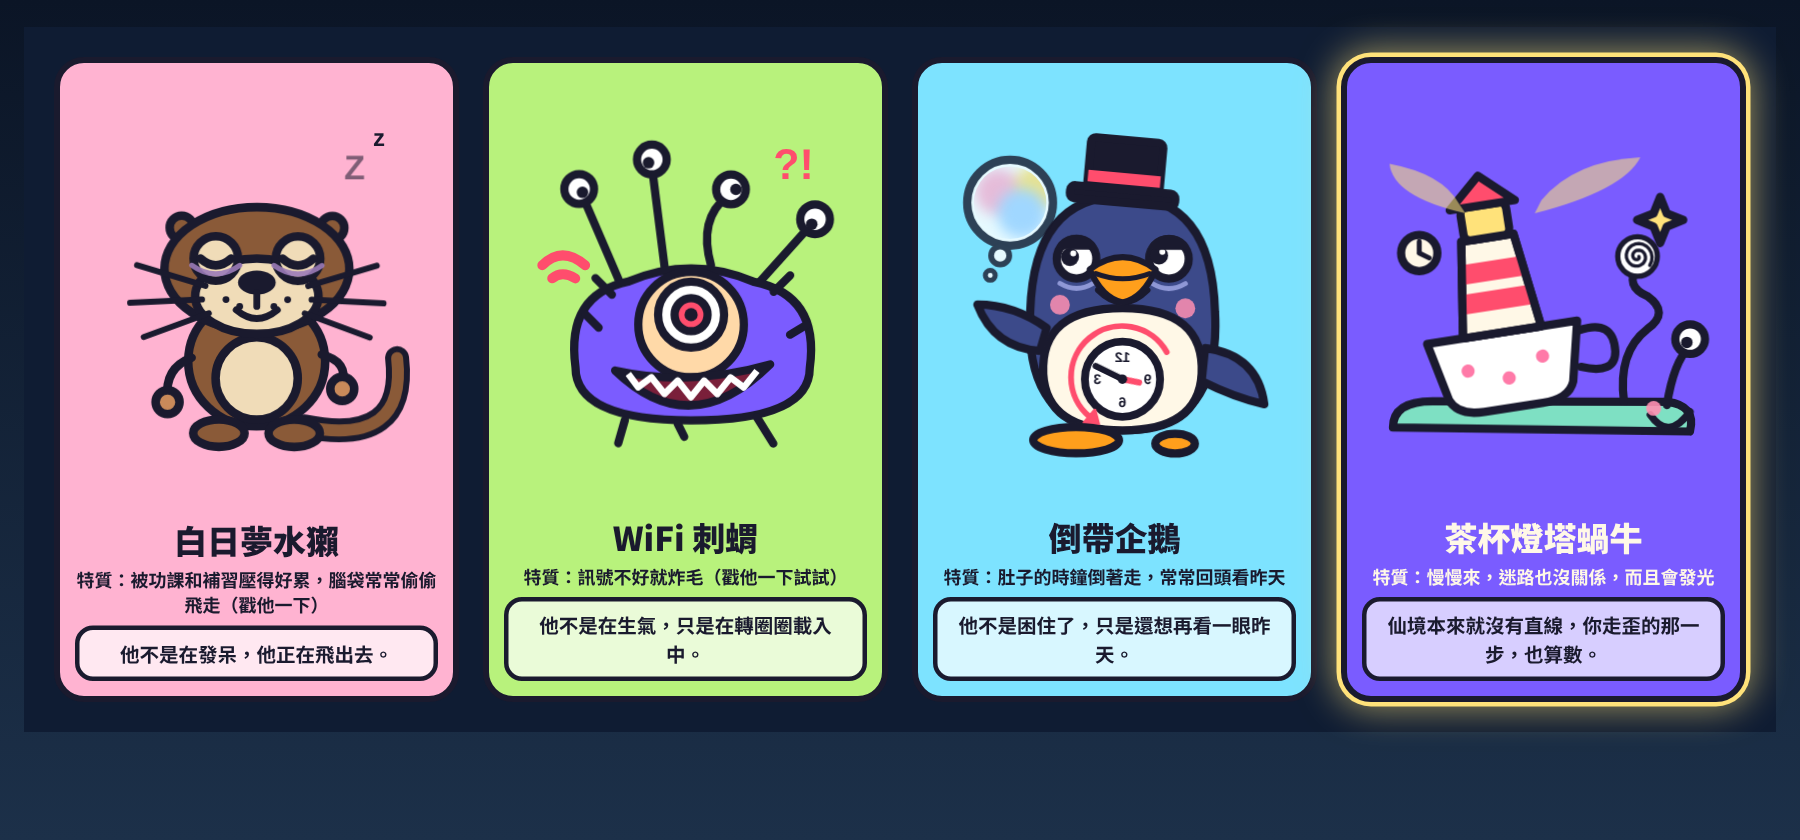
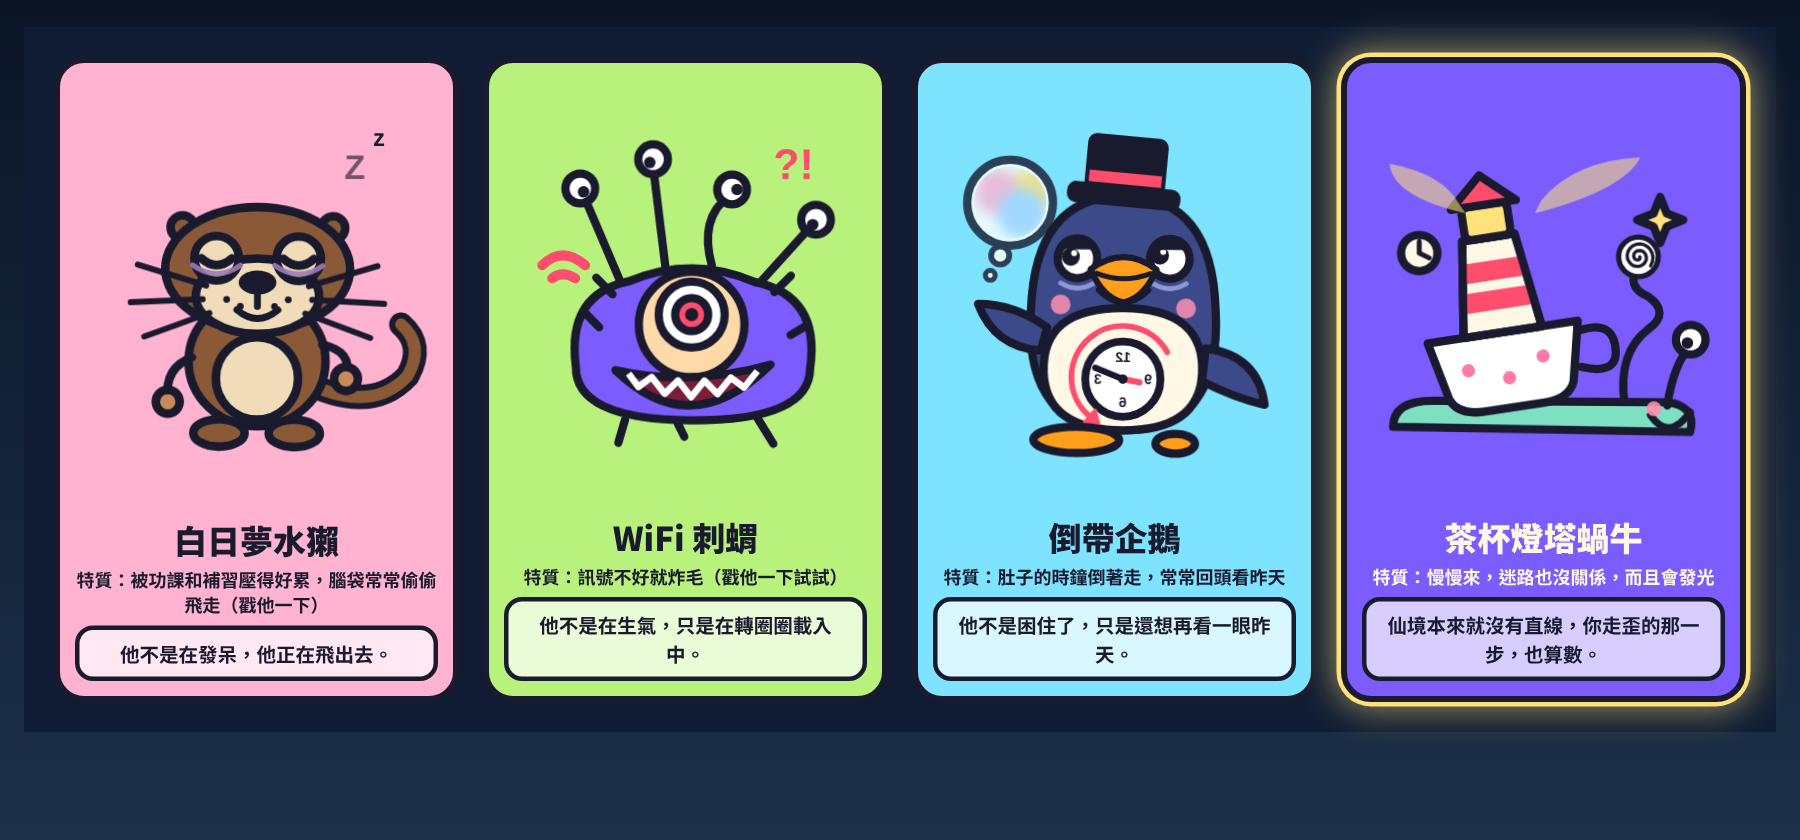
Lighthouse: 抽牌小樣本，水獺尾巴改從身體後側長出
Claude-Session: https://claude.ai/code/session_01QMXbFy7GatcecM2zJaJAS8

diff --git a/lighthouse/cards-sample.html b/lighthouse/cards-sample.html
@@ -114,7 +114,7 @@ const eyeSpiral = (x,y,r=12) => { let d = ""; for(let i = 0; i <= 44; i++){ cons
 const ART = {
   /* 白日夢水獺：被功課和補習壓得好累，常常偷偷幻想飛出去（沒有任何道具） */
   otter: `<svg viewBox="-6 -4 212 212"><g class="wob">
-    <path d="M128 178 Q188 190 182 138" fill="none" stroke="${INK}" stroke-width="14" stroke-linecap="round"/><path d="M128 178 Q188 190 182 138" fill="none" stroke="#8a5a38" stroke-width="7" stroke-linecap="round"/>
+    <path d="M124 150 Q166 172 188 148 Q198 130 184 118" fill="none" stroke="${INK}" stroke-width="14" stroke-linecap="round"/><path d="M124 150 Q166 172 188 148 Q198 130 184 118" fill="none" stroke="#8a5a38" stroke-width="7" stroke-linecap="round"/>
     <ellipse cx="100" cy="140" rx="40" ry="38" fill="#8a5a38" ${o}/>
     <ellipse cx="100" cy="150" rx="24" ry="24" fill="#f0dcb8" ${o}/>
     <ellipse cx="78" cy="182" rx="15" ry="8" fill="#8a5a38" ${o}/><ellipse cx="122" cy="182" rx="15" ry="8" fill="#8a5a38" ${o}/>
@@ -130,7 +130,7 @@ const ART = {
     <g class="sleepE"><circle cx="76" cy="80" r="13" fill="#f0dcb8" ${o}/><circle cx="124" cy="80" r="13" fill="#f0dcb8" ${o}/><path d="M67 80 Q76 88 85 80 M115 80 Q124 88 133 80" fill="none" stroke="${INK}" stroke-width="5" stroke-linecap="round"/></g>
     <g class="awakeE"><circle cx="76" cy="80" r="17" fill="#fff" ${o}/><circle cx="124" cy="80" r="17" fill="#fff" ${o}/><circle cx="76" cy="80" r="3.2" fill="${INK}"/><circle cx="124" cy="80" r="3.2" fill="${INK}"/><path d="M58 56 Q74 46 90 58 M110 58 Q126 46 142 56" fill="none" stroke="${INK}" stroke-width="5" stroke-linecap="round"/><path d="M40 70 L28 64 M42 56 L32 46" stroke="${INK}" stroke-width="3.5" stroke-linecap="round"/></g>
     <path d="M62 84 Q76 94 90 84 M110 84 Q124 94 138 84" fill="none" stroke="#9b7bb8" stroke-width="3" stroke-linecap="round" opacity=".9"/>
-    <path d="M138 136 Q154 140 150 154" fill="none" stroke="${INK}" stroke-width="5" stroke-linecap="round"/><circle cx="150" cy="156" r="7" fill="#c98a5a" ${o}/>
+    <path d="M138 130 Q156 134 152 148" fill="none" stroke="${INK}" stroke-width="5" stroke-linecap="round"/><circle cx="152" cy="150" r="7" fill="#c98a5a" ${o}/>
     </g>
     <g class="zz" fill="${INK}" font-weight="900" font-family="sans-serif"><text x="150" y="30" font-size="20">Z</text></g>
     <g class="zz" style="animation-delay:.7s" fill="${INK}" font-weight="900" font-family="sans-serif"><text x="168" y="14" font-size="14">z</text></g>
